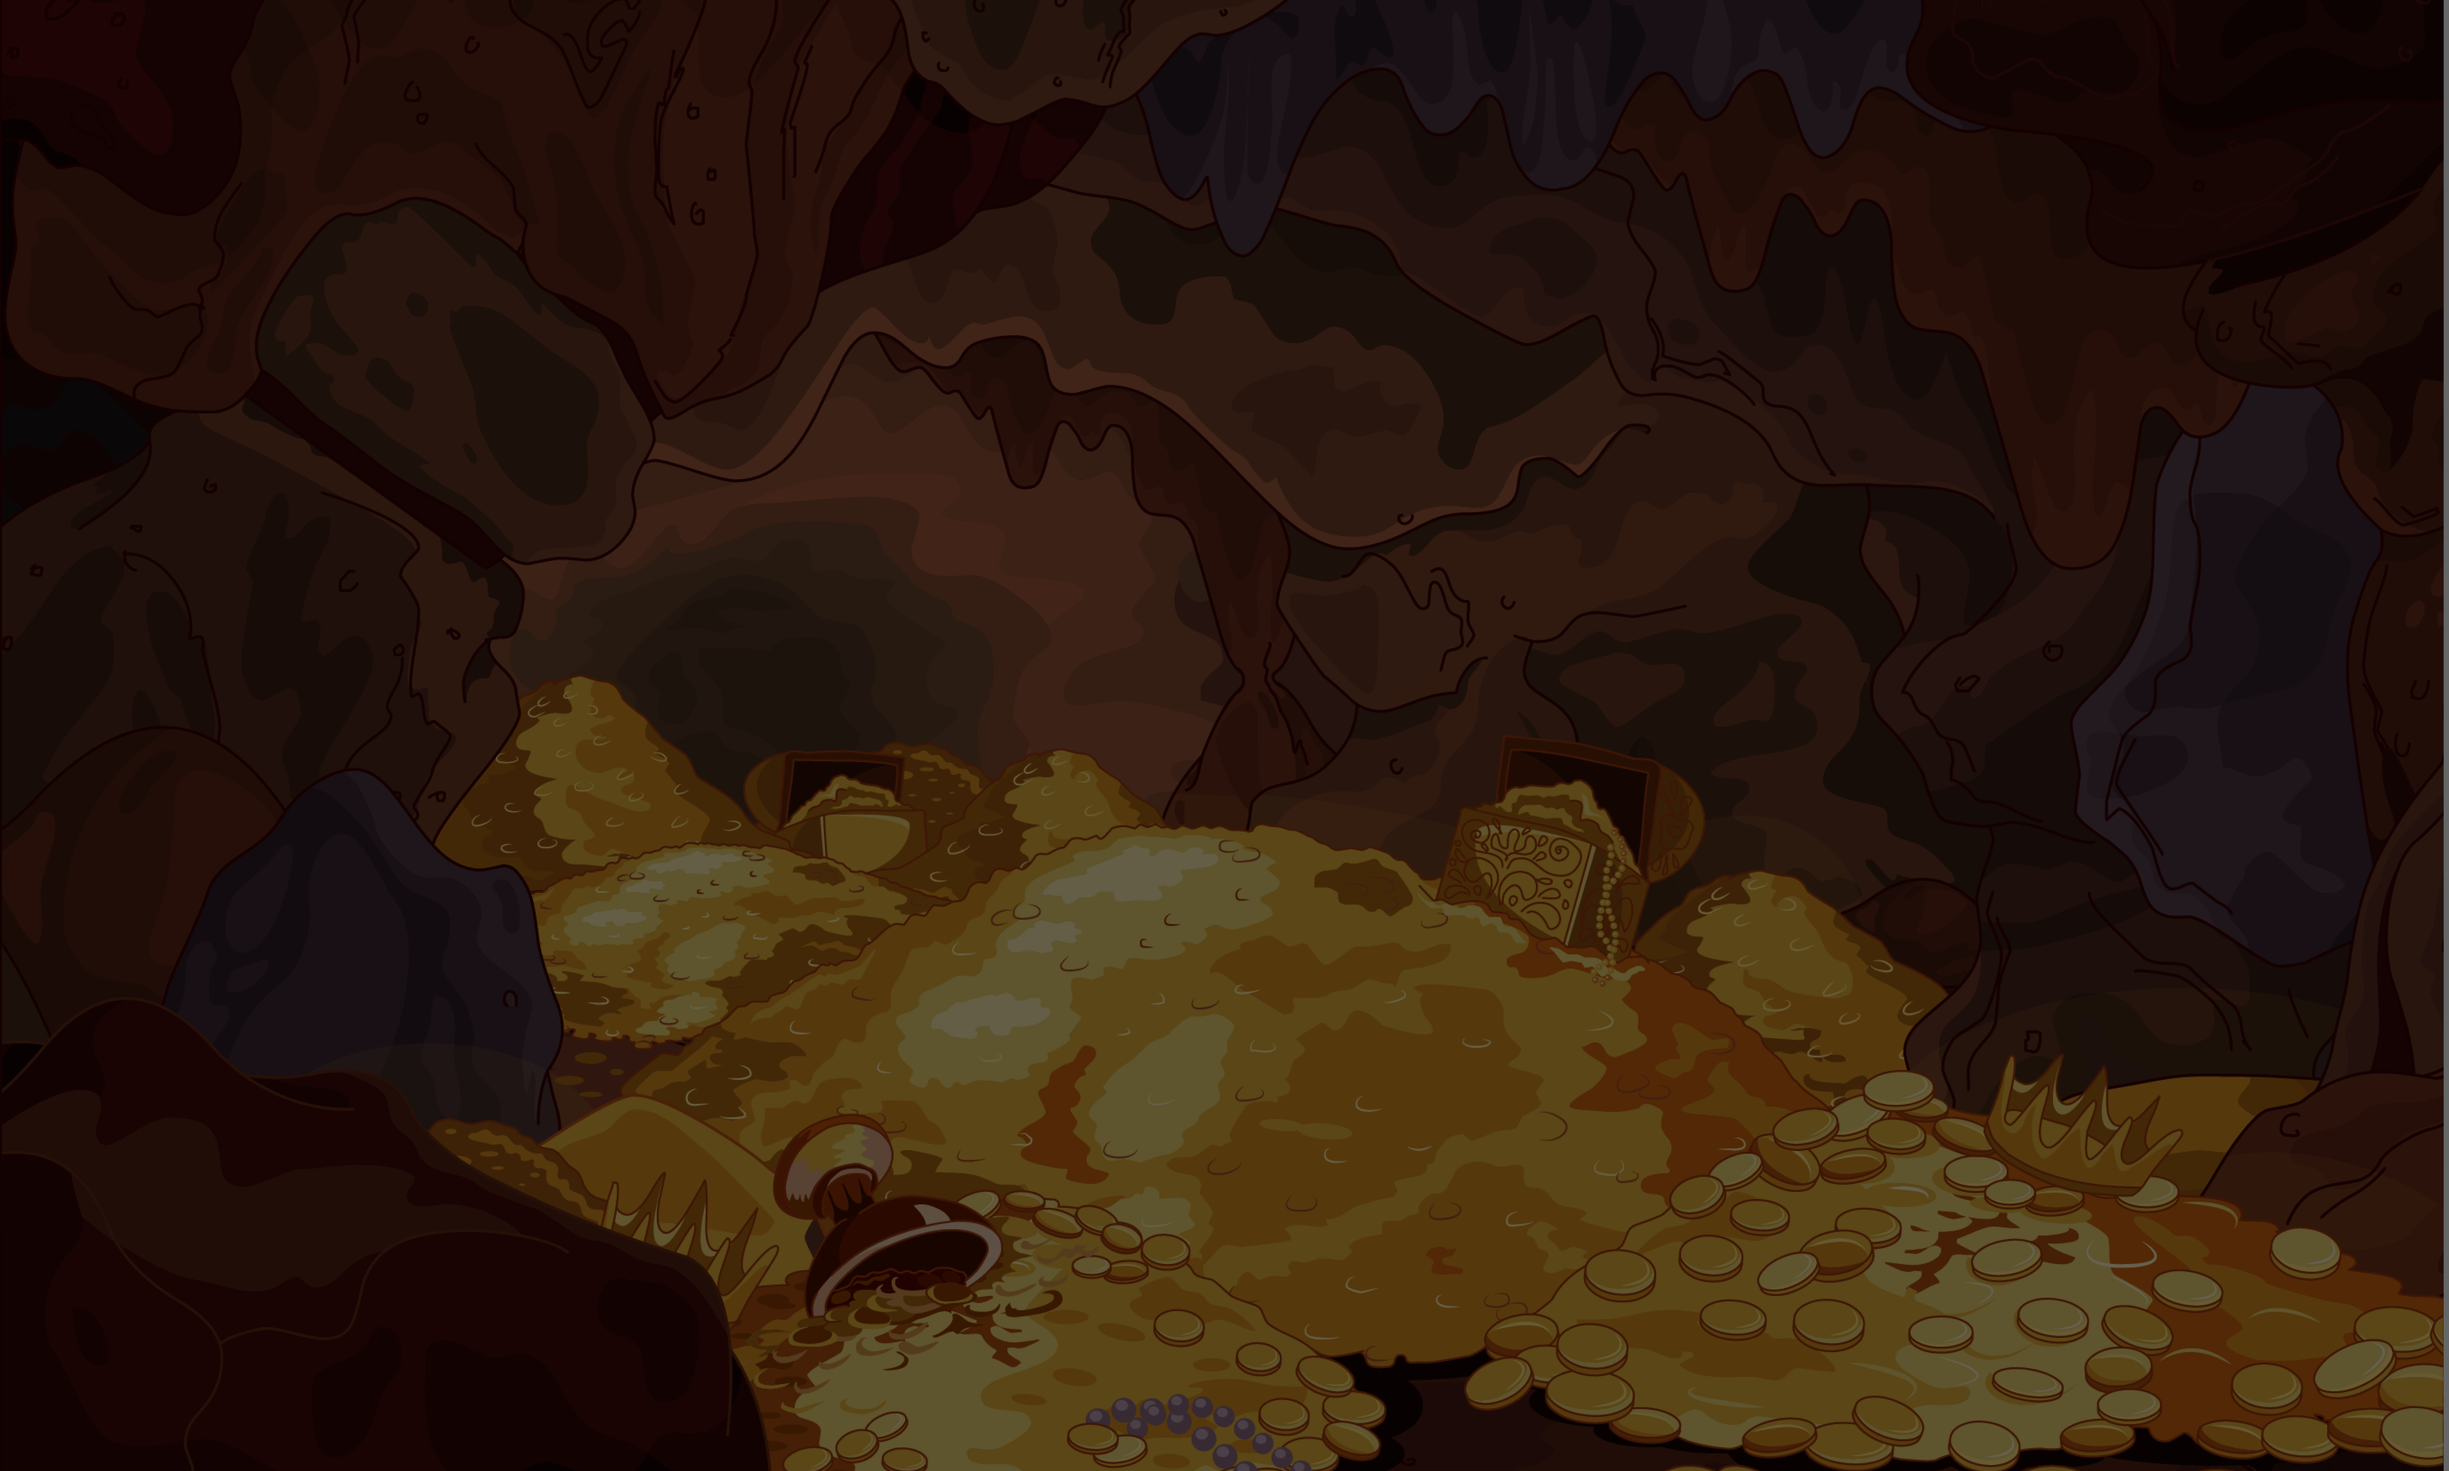
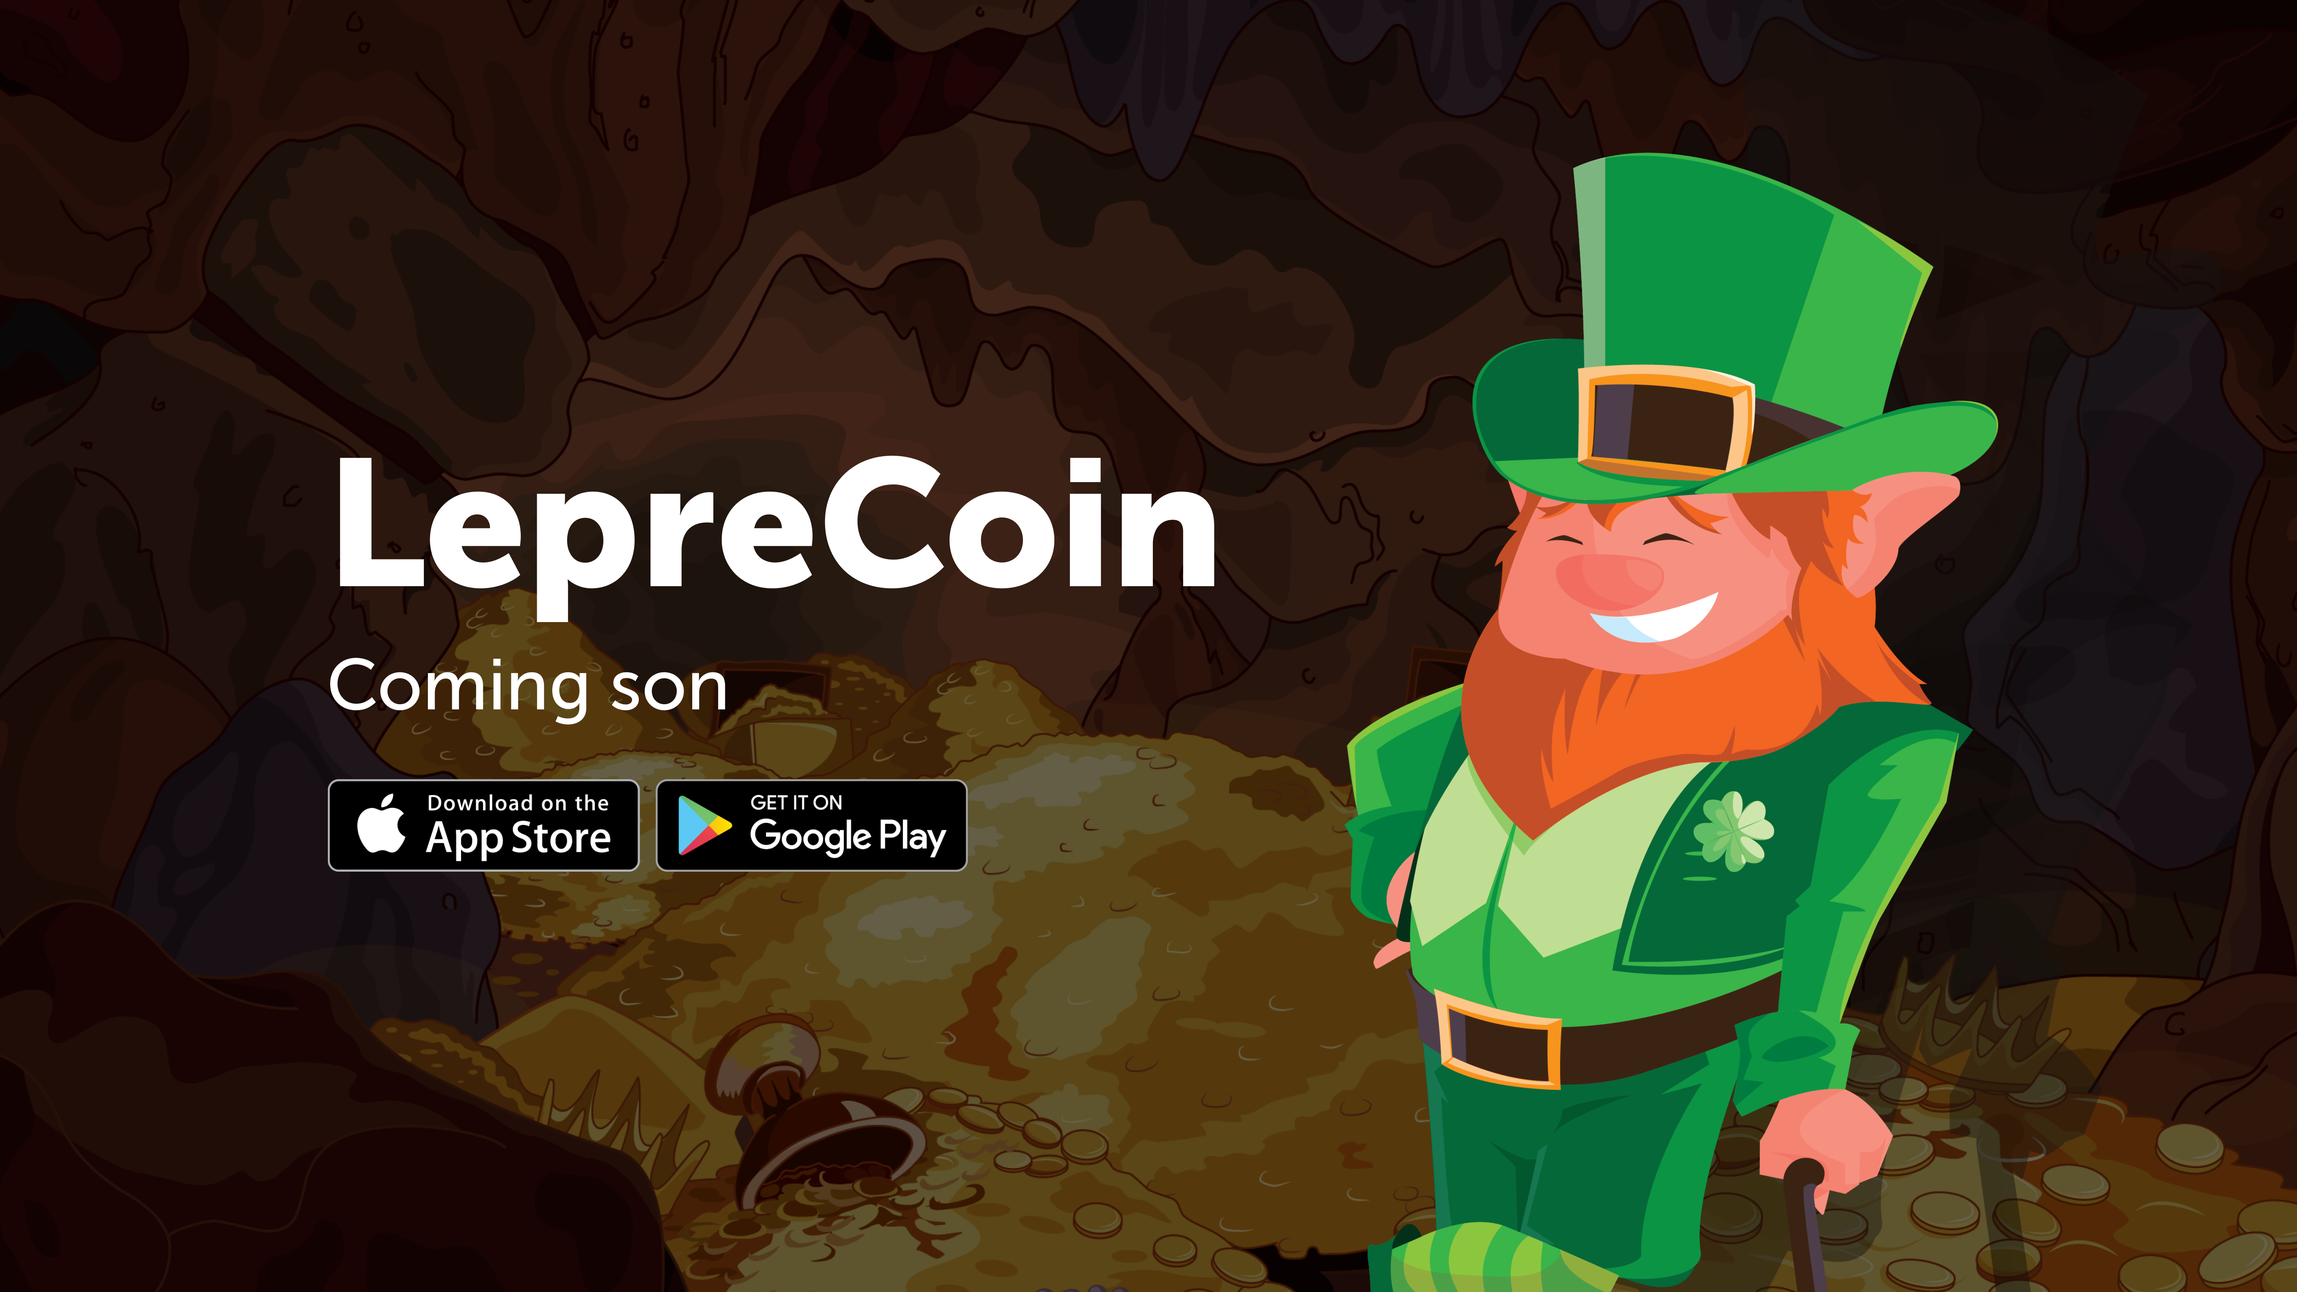
Background updated

diff --git a/index.html b/index.html
@@ -4,87 +4,15 @@
 	<meta charset="UTF-8">
 	<meta name="viewport" content="width=device-width, initial-scale=1">
 
-	<link href='http://fonts.googleapis.com/css?family=Roboto:400,100,700' rel='stylesheet' type='text/css'>
-	<link rel="stylesheet" href="css/reset.css"> <!-- CSS reset -->
-	<link rel="stylesheet" href="css/style.css"> <!-- Resource style -->
-
-	<script src="js/modernizr.js"></script> <!-- Modernizr -->
-  	
 	<title>LepreCoin | Cave Coins</title>
+	<style>
+		body {
+			height: 100vh;
+			background: url(img/bg.png);
+			background-size: cover;
+		}
+	</style>
 </head>
 <body>
-	<header class="cd-header">
-		<div id="cd-logo"><img src="img/cd-logo.svg" alt="Logo"></div>
-		<div id="cd-action"><a href="http://codyhouse.co/?p=384" class="btn">Download</a></div>
-	</header>
-
-	<main class="cd-main-content">
-		<div class="cd-product-intro">
-			<h1>LepreCoin : Cave Coins </h1>
-			<p>Click on the Start button to see the animated slideshow.<br>Videos will play on large devices only, on mobile you just see images.</p>
-			<div class="cd-triggers">
-				<!-- <a href="http://codyhouse.co/?p=384" class="btn">Download</a> -->
-				<a href="#cd-product-tour" class="btn salmon" data-type="cd-tour">Start</a>
-			</div>
-		</div> <!-- cd-product-intro -->
-
-		<div id="cd-product-tour">
-			<ul>
-				<li class="cd-single-item cd-active">
-					<div class="cd-caption">
-						<h2>What a great feature</h2>
-						<p>Lorem ipsum dolor sit amet, consectetur adipisicing elit. Voluptatibus praesentium, quis ab iusto possimus quaerat perspiciatis voluptas obcaecati ipsam autem.	
-						</p>
-					</div>
-					<div class="cd-image-container">
-						<div>
-							<div class="cd-phone-frame"></div>
-							<div class="cd-image-wrapper">
-								<img src="img/screen-1.png" data-video="video/video-1" alt="Screen Preview 1">
-							</div>
-						</div>
-					</div>
-				</li>
-				<!--<li class="cd-single-item cd-not-visible cd-move-right">
-					<div class="cd-caption">
-						<h2>This one is even better</h2>
-						<p>Lorem ipsum dolor sit amet, consectetur adipisicing elit. Voluptatibus praesentium, quis ab iusto possimus quaerat perspiciatis voluptas obcaecati ipsam autem.	
-						</p>
-					</div>
-					 <div class="cd-image-container">
-						<div>
-							<div class="cd-phone-frame"></div>
-							<div class="cd-image-wrapper">
-								<img src="img/screen-2.png" data-video="video/video-2" alt="Screen Preview 2">
-							</div>
-						</div>
-					</div>
-				</li>
-				<li class="cd-single-item cd-not-visible cd-move-right">
-					<div class="cd-caption">
-						<h2>Feature number 3</h2>
-						<p>Lorem ipsum dolor sit amet, consectetur adipisicing elit. Voluptatibus praesentium, quis ab iusto possimus quaerat perspiciatis voluptas obcaecati ipsam autem.	
-						</p>
-					</div>
-					<div class="cd-image-container">
-						<div>
-							<div class="cd-phone-frame"></div>
-							<div class="cd-image-wrapper">
-								<img src="img/screen-3.png" data-video="video/video-3" alt="Screen Preview 3">
-							</div>
-						</div>
-					</div>
-				</li>
-			</ul> -->
-		</div> 
-
-		<div class="cd-slider-nav">
-		
-		</div>
-
-		<div class="cd-loader"></div> <!-- top loading bar -->
-	</main>
-<script src="js/jquery-2.1.1.js"></script>
-<script src="js/main.js"></script> <!-- Resource jQuery -->
 </body>
 </html>
